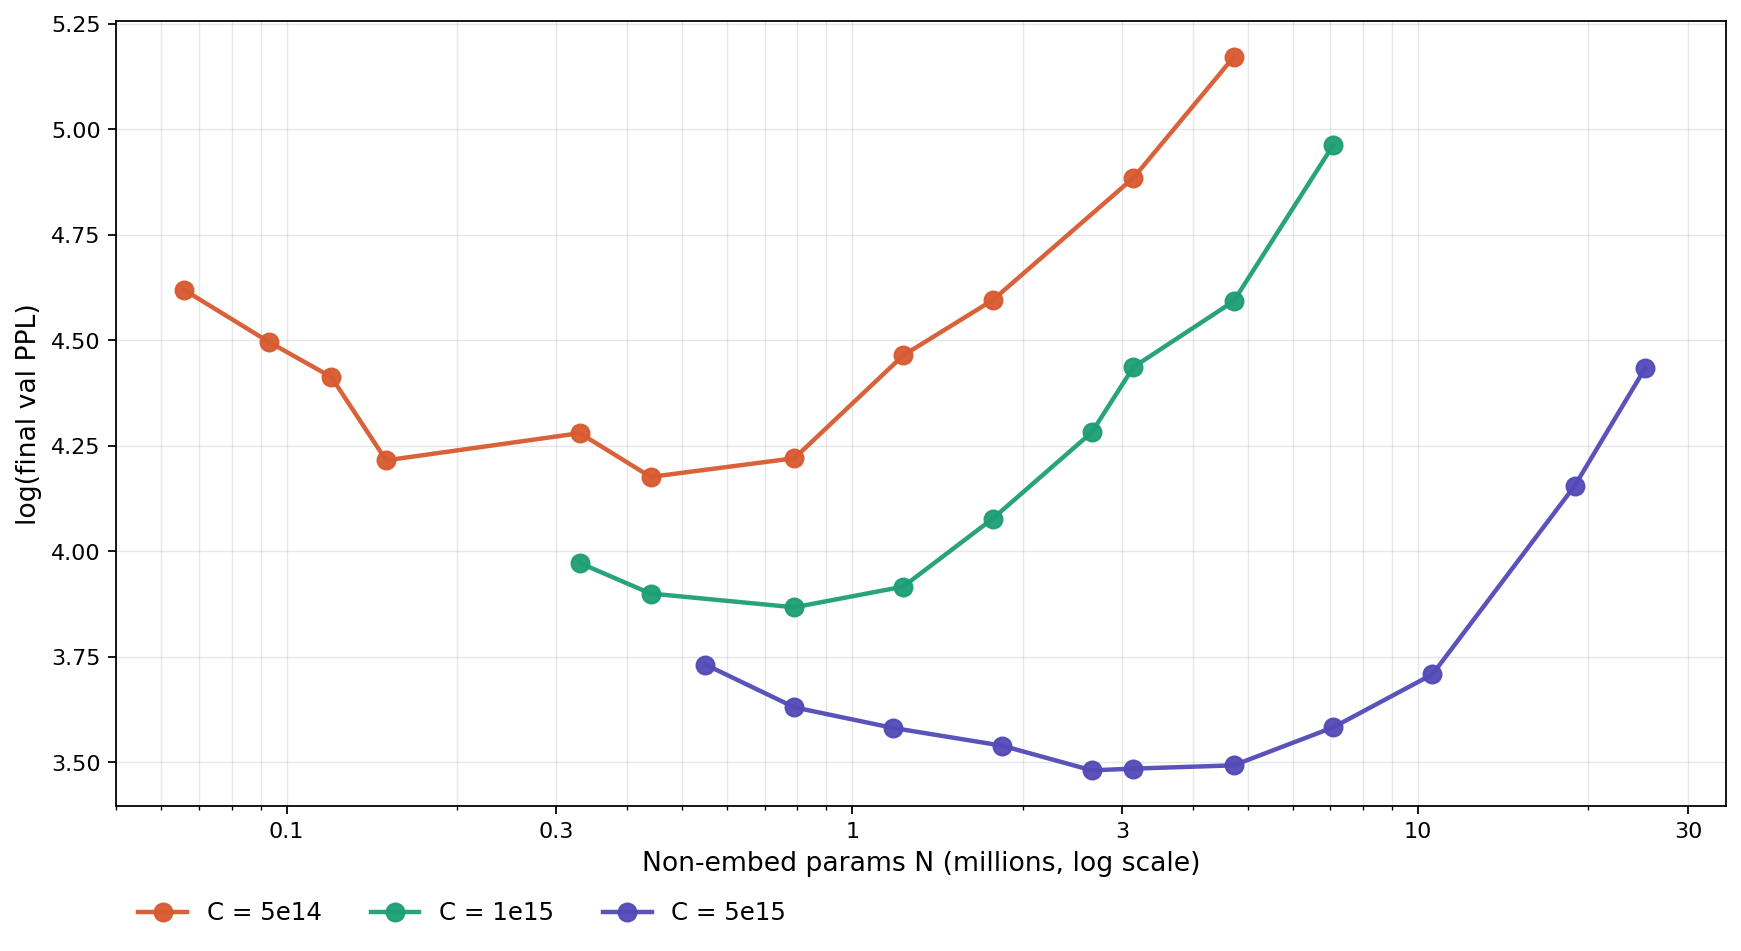
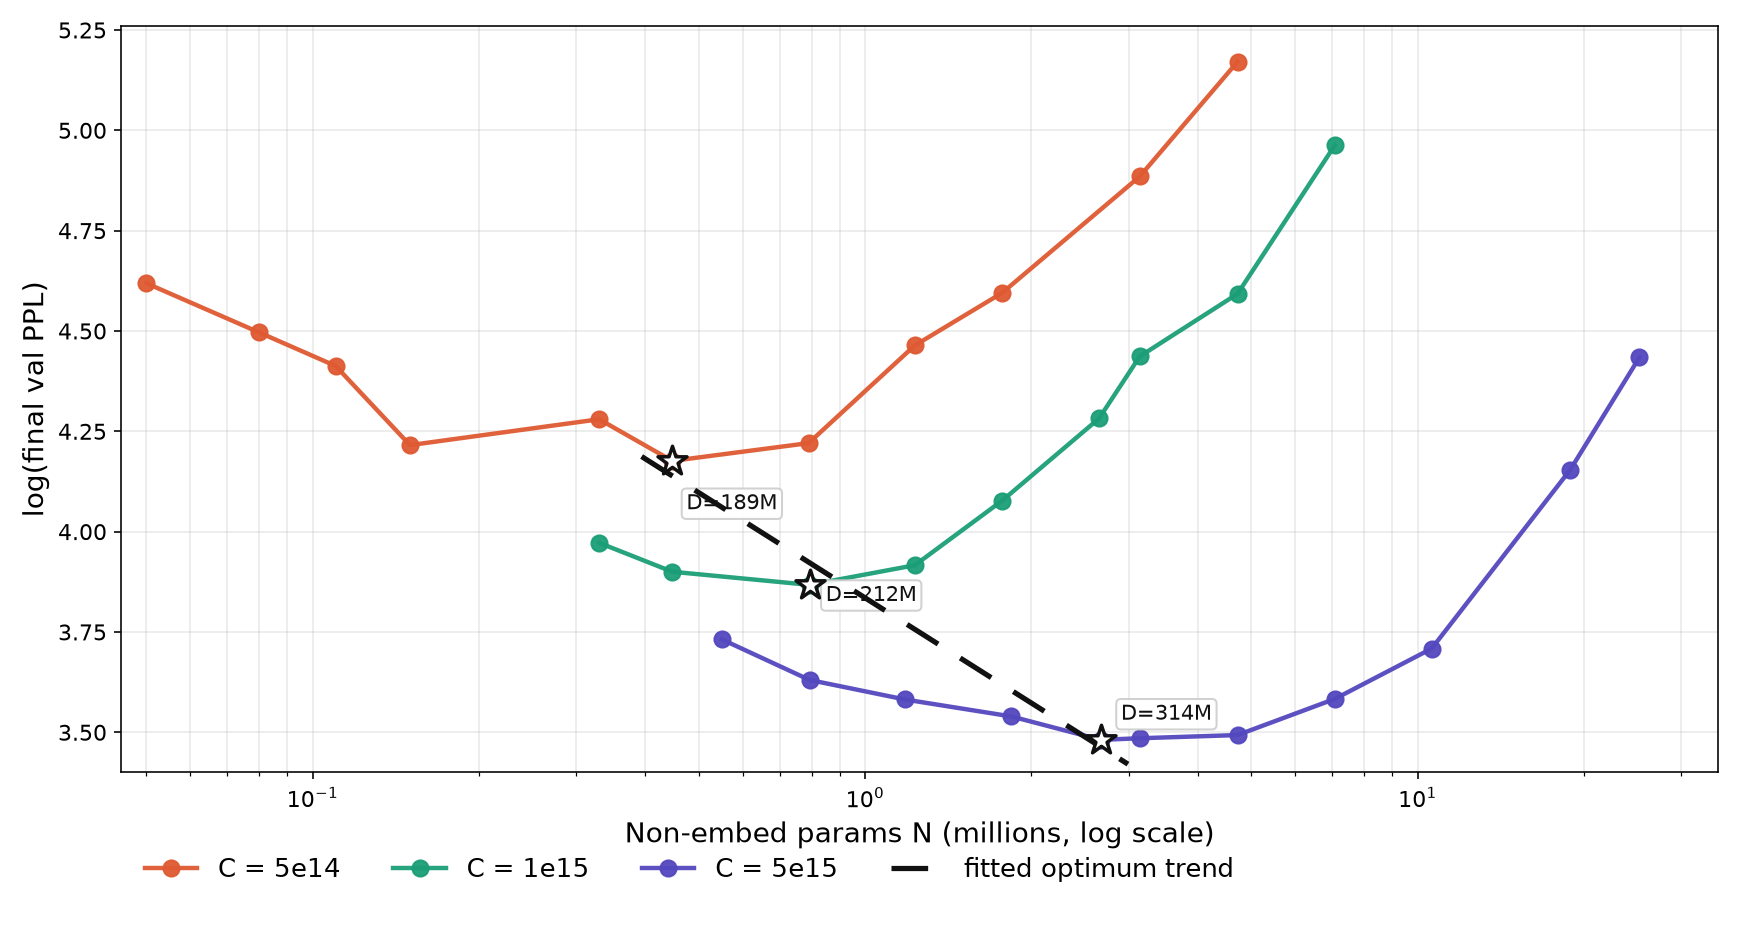
tidy up section 1

diff --git a/README.md b/README.md
@@ -10,13 +10,21 @@ The first phase studied how to spend pre-training compute for a small from-scrat
 
 ![Corrected Chinchilla scaling law result](chinchilla_curve.png)
 
-The main pre-training result: at this small scale, the compute-optimal data-to-parameter ratio was much higher than the classical large-model Chinchilla rule of `D/N ~= 20`, and decreased as compute increased.
+The main pre-training result: at this small scale, the compute-optimal data-to-parameter ratio was much higher than the classical large-model Chinchilla rule of `D/N ~= 20`, and decreased as compute increased. The extended small-model tail in the `5e14` FLOP sweep helped resolve the left side of the U-curve, showing that below a certain model size, adding more tokens no longer compensates for limited capacity.
 
-| Compute | Optimal N | Optimal D/N |
-|---|---:|---:|
-| `5e14` FLOPs | about `0.44M` | about `430` |
-| `1e15` FLOPs | about `0.79M` | about `270` |
-| `5e15` FLOPs | about `2.65M` | about `120` |
+| Compute | Optimal N | Optimal D | Optimal D/N |
+|---|---:|---:|---:|
+| `5e14` FLOPs | about `0.45M` | about `189M` tokens | about `422` |
+| `1e15` FLOPs | about `0.79M` | about `212M` tokens | about `267` |
+| `5e15` FLOPs | about `2.67M` | about `314M` tokens | about `118` |
+
+Fitting the three corrected optima gives this experiment-specific relationship between model size and training data:
+
+$$
+D_{\mathrm{opt}} \approx 2.34 \times 10^8 \left(\frac{N}{10^6}\right)^{0.29}
+$$
+
+In plain terms, a `10x` increase in non-embedding model size corresponded to only about `2x` more optimal training tokens in these small-scale runs, while tokens per parameter dropped sharply as the model got larger.
 
 For the detailed experiment record, including the original README, sweep scripts, plots, and notes, see the [`1_scaling_law` branch](https://github.com/chenpy2000/llm-pipeline/tree/1_scaling_law).
 
